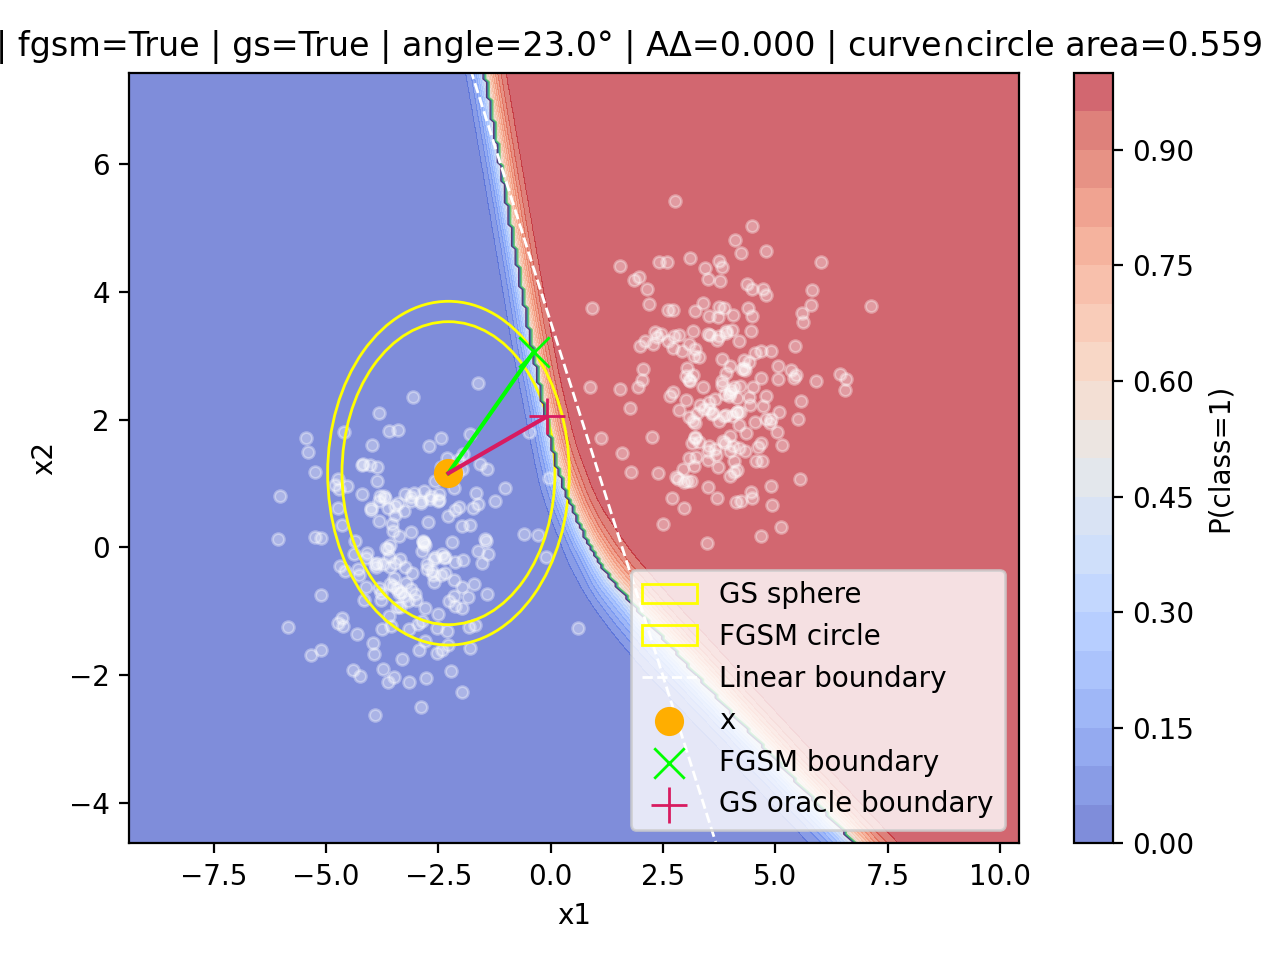
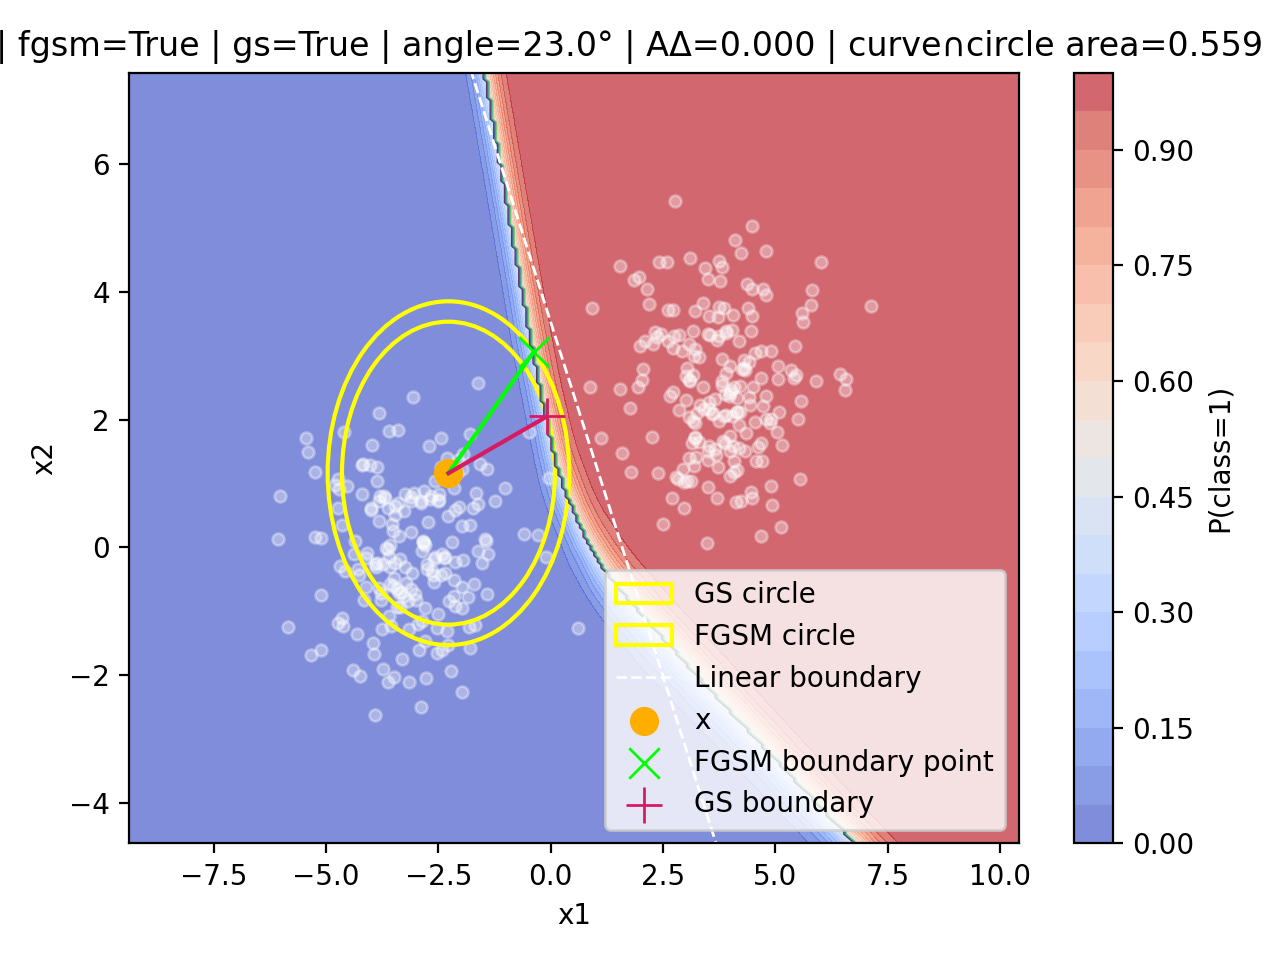
visualization

diff --git a/utils/visualization/oracle_eval.py b/utils/visualization/oracle_eval.py
@@ -297,13 +297,13 @@ def plot_2d_boundary_comparison(
     # GS sphere (circle)
     if show_gs_sphere and gs_radius is not None and np.isfinite(gs_radius) and gs_radius > 0:
         ax.add_patch(
-            plt.Circle((x[0], x[1]), float(gs_radius), fill=False, linewidth=2.0, label="GS sphere")
+            plt.Circle((x[0], x[1]), float(gs_radius), fill=False, linewidth=1.5, label=gs_circle_label, edgecolor="yellow")
         )
 
     # Crawler circle centered at x and passing through b_crawler
     if crawler_circle and r_crawler is not None and np.isfinite(r_crawler) and r_crawler > 0:
         ax.add_patch(
-            plt.Circle((x[0], x[1]), float(r_crawler), fill=False, linewidth=2.0, label="Crawler circle (|x-b_crawler|)", edgecolor="yellow")
+            plt.Circle((x[0], x[1]), float(r_crawler), fill=False, linewidth=1.5, label=b_circle_label, edgecolor="yellow")
         )
 
     # Linear decision boundary (exact if possible else surrogate)

diff --git a/experiments/run_boundary_oracle_eval.py b/experiments/run_boundary_oracle_eval.py
@@ -227,7 +227,7 @@ def main():
             plot_2d_boundary_comparison(
                 model=model,
                 x=x_i,
-                b_fgsm=np.asarray(fgsm_res.x_boundary, dtype=np.float32) if row["fgsm_success"] else None,
+                b_crawler=np.asarray(fgsm_res.x_boundary, dtype=np.float32) if row["fgsm_success"] else None,
                 b_gs=np.asarray(gs_res.x_boundary, dtype=np.float32) if row["gs_success"] else None,
                 gs_radius=row["gs_radius_found"] if row["gs_success"] else None,
                 save_path=out_path,
@@ -236,7 +236,7 @@ def main():
                 device=device,
                 title=title,
                 # This will draw a circle centered at x with radius ||x-b_fgsm||:
-                fgsm_circle=True,
+                crawler_circle=True,
                 show_soft_surface=True,
                 soft_mode="p_class1",  # "p_true" | "p_class1" | "p_max"
                 soft_levels=20,
